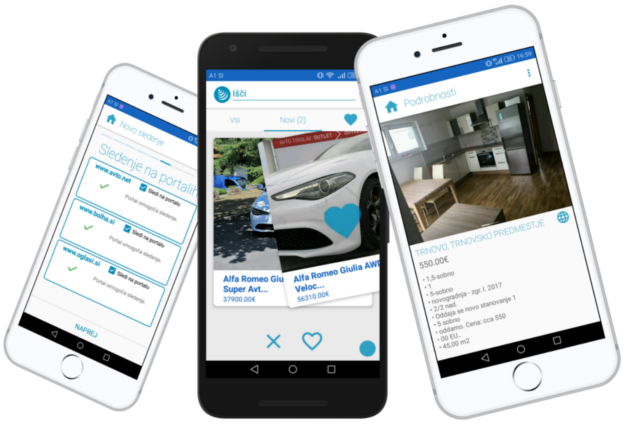
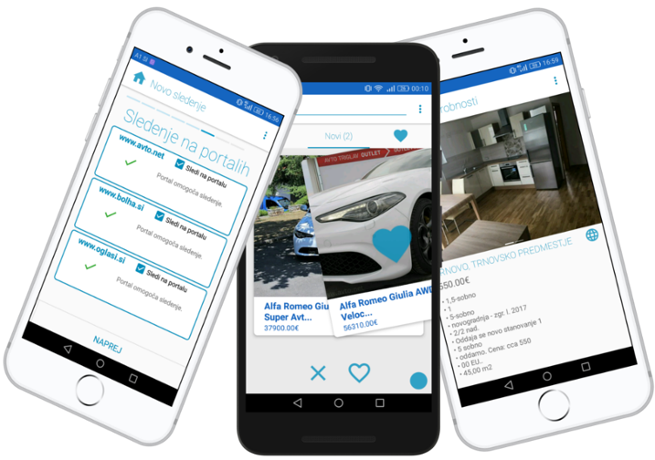
- different photo position

diff --git a/index.html b/index.html
@@ -235,24 +235,18 @@
 
             <div class="item">
                 <div class="row" style="height: 560px;">
-                    <div class="col-md-12 col-sm-12" style="text-align: center;">
+                    <div class="col-md-6 col-sm-12" style="text-align: center;">
                         <img src="img/phones.png" alt="easy controlling" style="max-width: 100%">
                     </div>
-                    <div class="carousel-caption">
-                        <h3>Ponujamo mobilno aplikacijo
-                            za še hitrejši pregled nad novimi oglasi. Z intuitivnimi potezami enostavno oglas
-                            pripnete za kasnejši pregled, ali pa ga odstranite.</h3>
-                    </div>
-                    <!--<div class="col-md-6 col-sm-12">-->
-                        <!--<div class="carousel-block">-->
+                    <div class="col-md-6 col-sm-12">
+                        <div class="carousel-block">
                             <!--<h2 class="carousel-title" data-locale="slide.mobile.title">Mobilna podpora</h2>-->
 
-                            <!--<p class="carousel-content" data-locale="slide.mobile.content">Ponujamo mobilno aplikacijo-->
-                                <!--za še hitrejši pregled nad novimi oglasi. Z intuitivnimi potezami enostavno oglas-->
-                                <!--pripnete za kasnejši pregled, ali pa ga odstranite.</p>-->
-                        <!--</div>-->
-                        <!--<img class="carousel-bg-pic" src="img/mobile-tablet_edited.png" alt="easy controlling">-->
-                    <!--</div>-->
+                            <p class="carousel-content text-shadow" data-locale="slide.mobile.content">Ponujamo mobilno aplikacijo
+                                za še hitrejši pregled nad novimi oglasi. Z intuitivnimi potezami enostavno oglas
+                                pripnete za kasnejši pregled, ali pa ga odstranite.</p>
+                        </div>
+                    </div>
                 </div>
             </div>
 

diff --git a/css/creative.css b/css/creative.css
@@ -994,17 +994,11 @@ footer .container span>a{
     color: white;
 }
 
-.carousel-caption {
-    position: absolute;
-    right: 15%;
-    bottom: 20px;
-    left: 15%;
-    z-index: 10;
-    padding-top: 20px;
-    padding-bottom: 35px;
+.text-shadow {
     color: #008ebc;
-    text-align: center;
     text-shadow: 0 1px 2px rgba(0, 0, 0, .6);
+    font-size: 25px;
+    font-weight: normal;
 }
 
 
